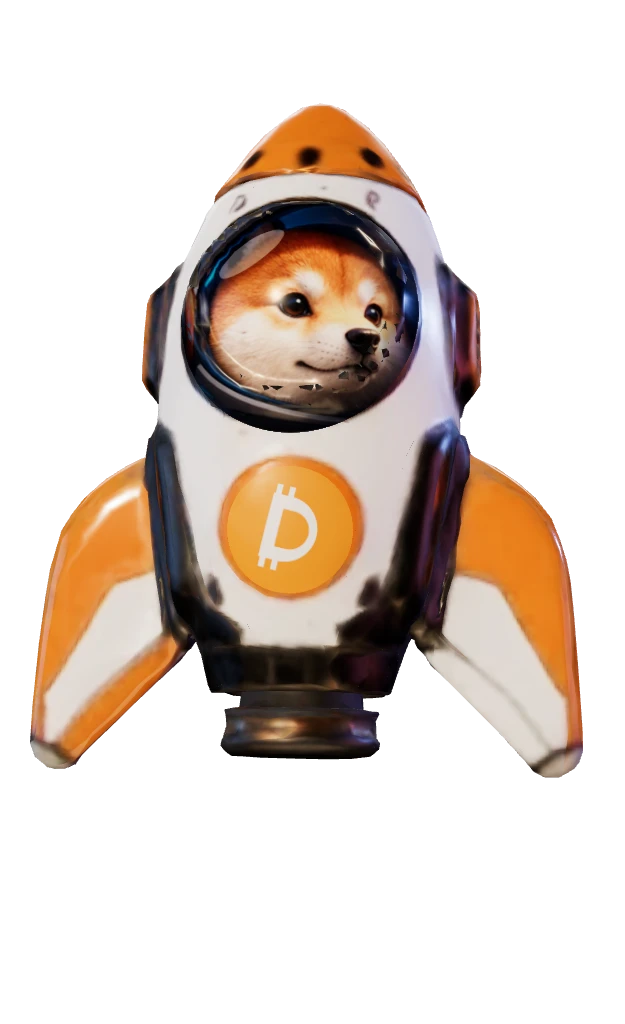
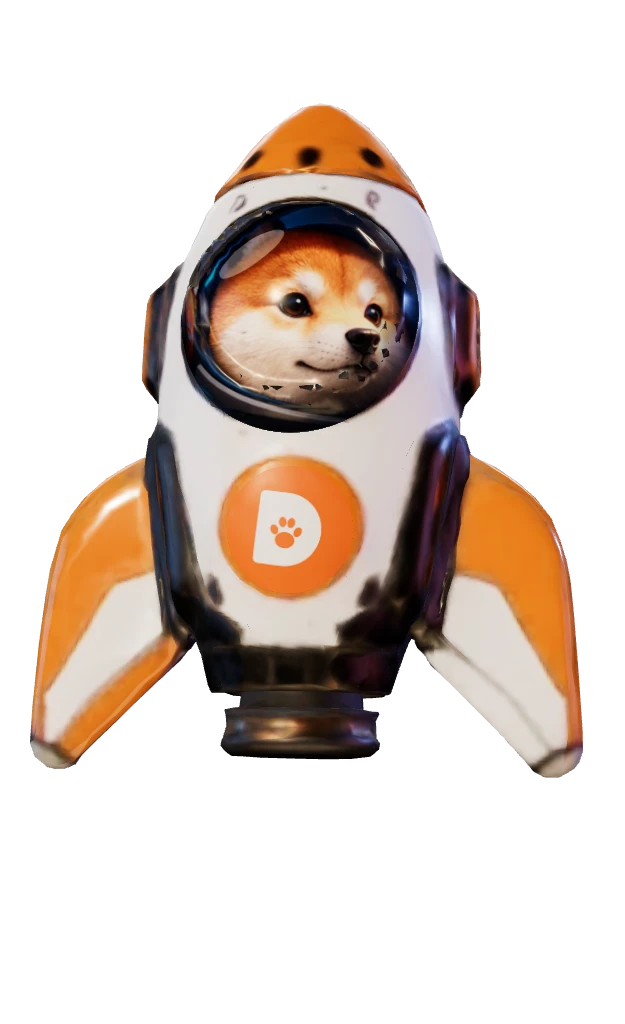
Foguete: símbolo com o D maciço e a pata do DOG, como na folha de referência (#6)
Claude-Session: https://claude.ai/code/session_013wUpE5WbHT5puNWWsGu7bU

Changed region(s): [[0.3648, 0.4375, 0.5776, 0.5938]]

diff --git a/src/three/RocketModel.tsx b/src/three/RocketModel.tsx
@@ -9,7 +9,7 @@ import * as THREE from 'three';
  * y = -1.55, nariz em y = 1.9, escotilha virada para +Z.
  *
  * A escotilha e o símbolo são pintados na textura do casco; o rosto do DOG e o
- * "D" (no lugar do ₿ original) são malhas que acompanham a curva do casco (projetadas por raio).
+ * símbolo do DOG (no lugar do ₿ original) são malhas que acompanham a curva do casco (projetadas por raio).
  */
 
 const MODEL_URL = `${import.meta.env.BASE_URL || './'}models/rocket.glb`;
@@ -98,41 +98,47 @@ function useFaceTexture() {
 }
 
 /**
- * "D" do DOG no estilo do símbolo do Bitcoin (dois traços em cima e embaixo),
- * branco no círculo laranja do casco, igual às artes de evolução do foguete.
+ * Símbolo do DOG no casco: círculo laranja, "D" branco maciço e uma pata
+ * laranja no meio do D, igual à folha de referência do foguete.
  */
 export function drawDogBadge(g: CanvasRenderingContext2D, S: number) {
-  g.fillStyle = '#f7931a';
+  const orange = '#f26b1d';
+  g.fillStyle = orange;
   g.beginPath();
   g.arc(S / 2, S / 2, S / 2 - 2, 0, Math.PI * 2);
   g.fill();
   g.save();
   g.translate(S / 2, S / 2);
-  g.rotate(0.24);
-  g.fillStyle = '#ffffff';
-  // D: haste reta à esquerda e barriga arredondada, com o miolo vazado.
-  const h = S * 0.5; // altura do D
-  const w = S * 0.4; // largura do D
-  const t = S * 0.1; // espessura
-  const x0 = -w / 2 + S * 0.02;
+  g.rotate(0.12);
+  // D maciço: haste reta à esquerda e barriga arredondada.
+  const h = S * 0.56;
+  const w = S * 0.5;
+  const x0 = -w / 2;
   const y0 = -h / 2;
-  const bowl = (x: number, y: number, bw: number, bh: number) => {
-    const r = bh / 2;
-    g.moveTo(x, y);
-    g.lineTo(x + bw - r, y);
-    g.arc(x + bw - r, y + r, r, -Math.PI / 2, Math.PI / 2);
-    g.lineTo(x, y + bh);
-    g.closePath();
-  };
+  const r = h / 2;
+  const corner = S * 0.04;
+  g.fillStyle = '#ffffff';
   g.beginPath();
-  bowl(x0, y0, w, h);
-  bowl(x0 + t, y0 + t, w - t * 1.6, h - 2 * t);
-  g.fill('evenodd');
-  // Traços acima e abaixo da haste, como no ₿.
-  const tick = S * 0.075;
-  for (const dx of [t * 0.35, t * 1.35]) {
-    g.fillRect(x0 + dx - t * 0.22, y0 - tick, t * 0.44, tick + 1);
-    g.fillRect(x0 + dx - t * 0.22, y0 + h - 1, t * 0.44, tick + 1);
+  g.moveTo(x0 + corner, y0);
+  g.lineTo(x0 + w - r, y0);
+  g.arc(x0 + w - r, y0 + r, r, -Math.PI / 2, Math.PI / 2);
+  g.lineTo(x0 + corner, y0 + h);
+  g.quadraticCurveTo(x0, y0 + h, x0, y0 + h - corner);
+  g.lineTo(x0, y0 + corner);
+  g.quadraticCurveTo(x0, y0, x0 + corner, y0);
+  g.fill();
+  // Pata laranja no miolo do D: almofada e quatro dedos.
+  const cx = x0 + w * 0.46;
+  const cy = S * 0.03;
+  const u = S * 0.058;
+  g.fillStyle = orange;
+  g.beginPath();
+  g.ellipse(cx, cy + u * 0.9, u * 1.35, u * 1.1, 0, 0, Math.PI * 2);
+  g.fill();
+  for (const [dx, dy, rot] of [[-1.55, -0.35, -0.5], [-0.55, -1.45, -0.15], [0.6, -1.45, 0.15], [1.6, -0.35, 0.5]]) {
+    g.beginPath();
+    g.ellipse(cx + dx * u, cy + dy * u, u * 0.55, u * 0.72, rot, 0, Math.PI * 2);
+    g.fill();
   }
   g.restore();
 }

diff --git a/CHANGELOG.md b/CHANGELOG.md
@@ -1,5 +1,8 @@
 # Novidades
 
+## 2.5.3 (setembro de 2026)
+- Símbolo do casco igual à folha de referência do foguete: "D" branco maciço com a pata do DOG, sem os traços do ₿.
+
 ## 2.5.2 (setembro de 2026): foguete com o D do DOG
 - **Novas artes das 5 fases do foguete** (Básico, Aprimorado, Avançado, Especial e Lendário) na vitrine da Loja e da Oficina, recortadas da arte "Evolução do foguete".
 - **"D" do DOG no lugar do ₿** no casco do foguete 3D, na tela inicial e no ícone de foguete dos botões.
